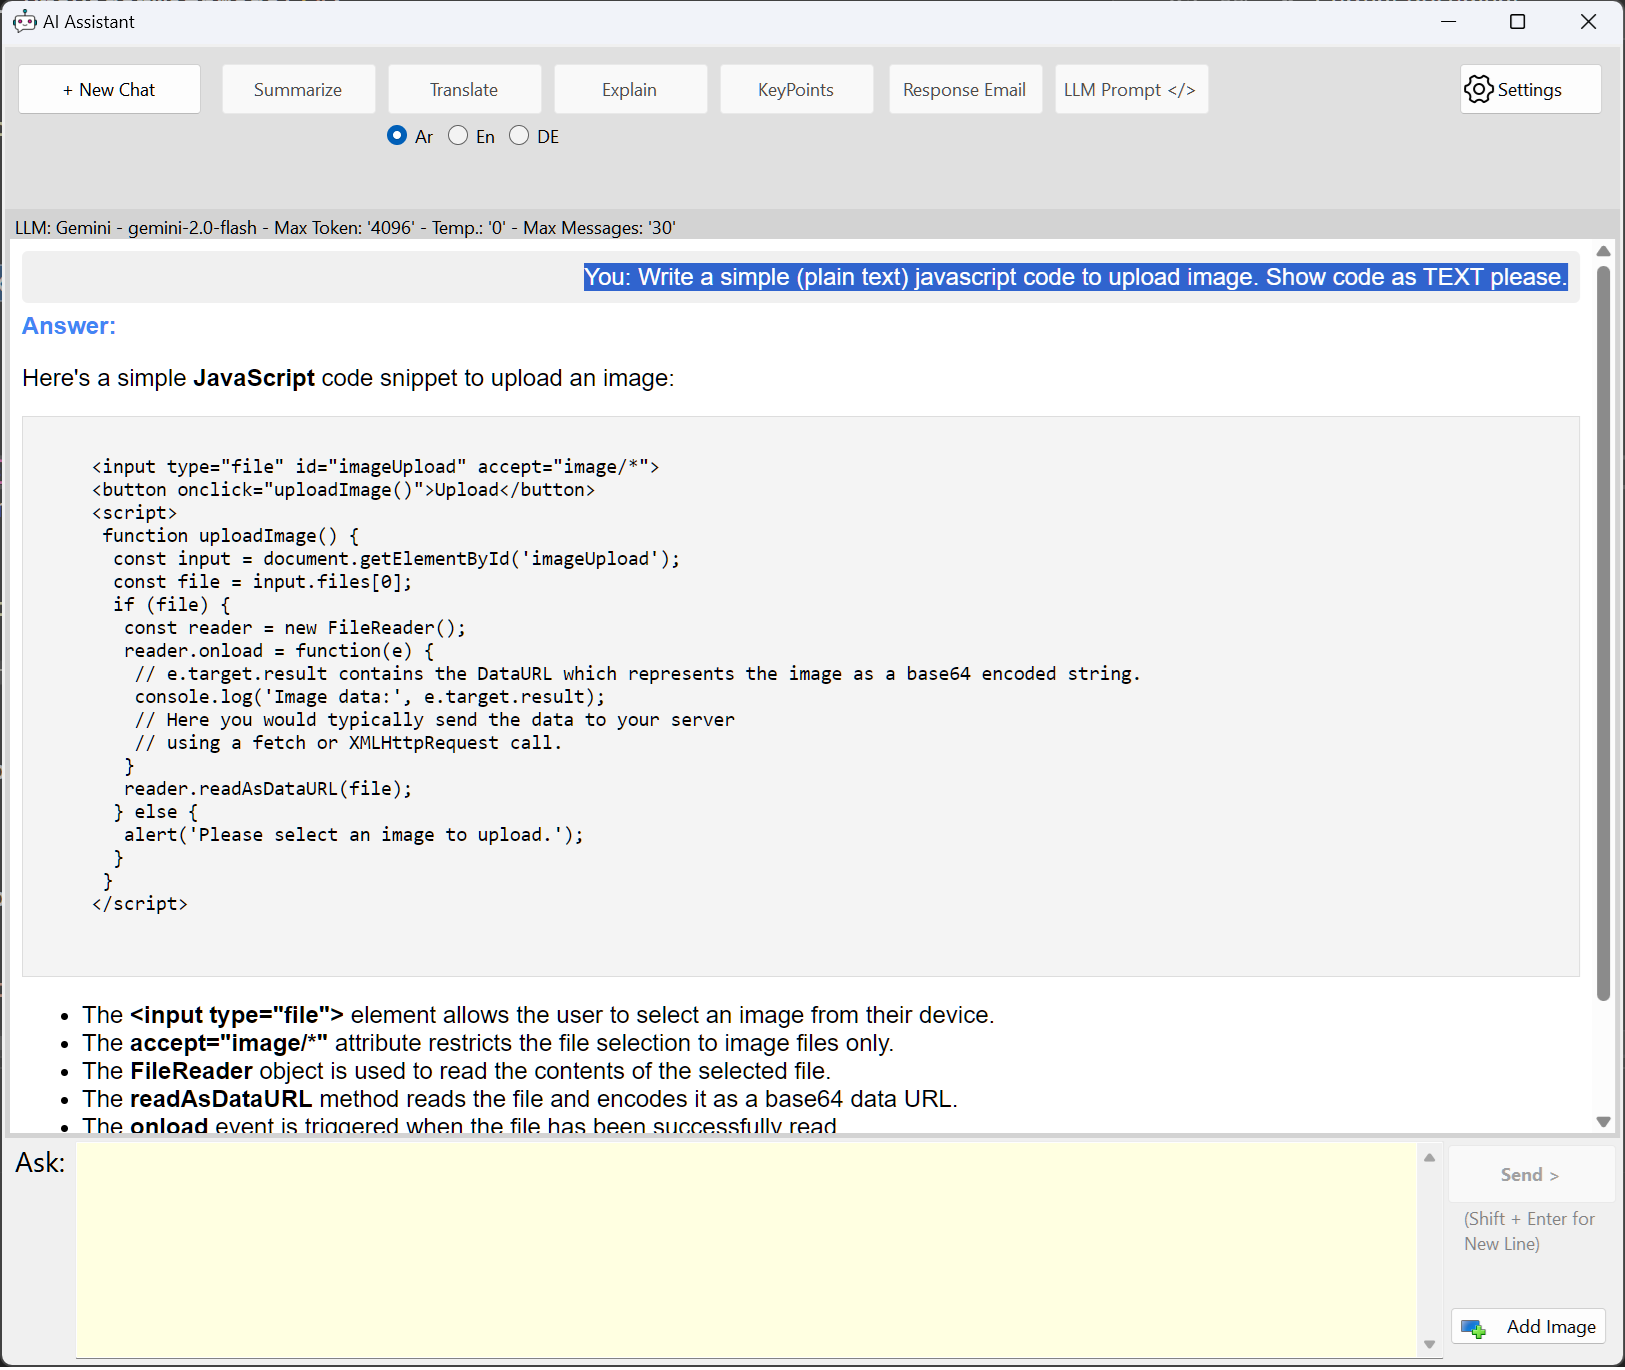
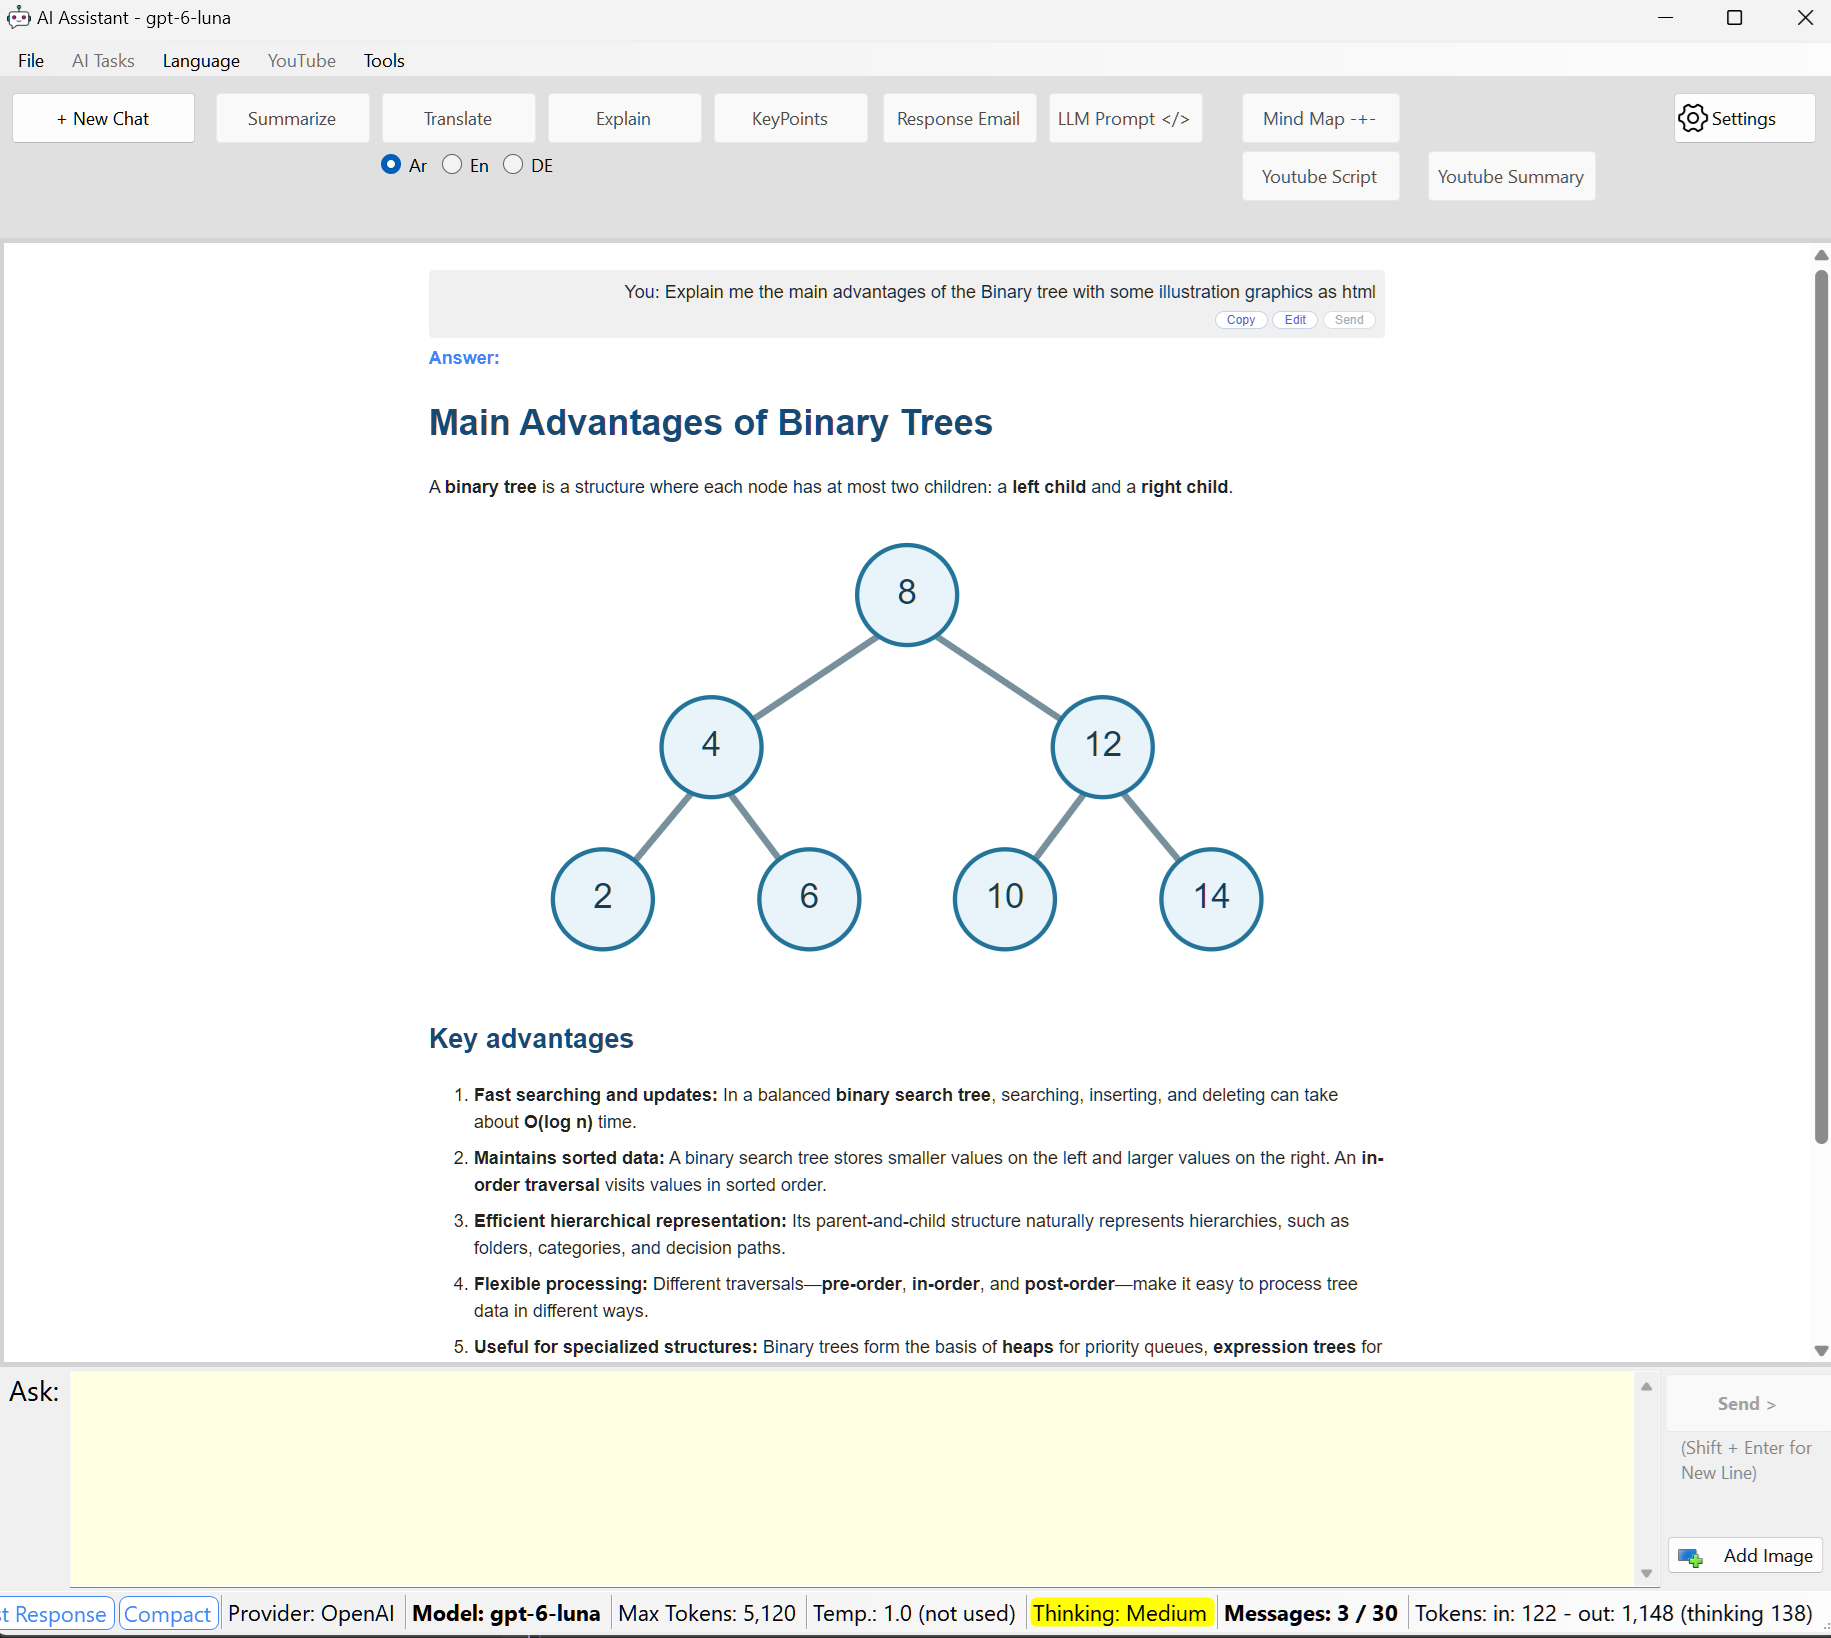
docs: update README and screenshot

diff --git a/README.md b/README.md
@@ -4,6 +4,9 @@ A powerful Windows Forms application that provides a user-friendly interface for
 The application supports multiple AI providers, image analysis, and specialized AI tasks.
 
 ![UI Assistant Screenshot](https://raw.githubusercontent.com/MohammedJayyab/AI_Assistant/master/AI_Assistant/images/UI_Assistant.png)
+
+*An HTML answer with an illustration. The title shows the model in use; the status bar shows the provider, the model, max tokens, the temperature (`not used` while the model thinks), the thinking level highlighted in yellow, the messages in the LLM context and the tokens reported by the provider.*
+
 ## Features
 
 - 🤖 **Multiple AI Providers**
@@ -46,6 +49,7 @@ The application supports multiple AI providers, image analysis, and specialized 
   - A cut-off or empty summary does not compact the conversation: the current context is kept and a message explains why
   - **Copy Last Response** copies the last answer; every message also has its own Copy button, under the text on the right
   - **Edit** (on the last question): change it and press **Send** to replace the question and its answer, in the LLM context, the chat and the history
+  - **Re-Generate** (on the last answer): asks the same question again, with the same prompt and image, and the new answer replaces the last one in place, in the LLM context, the chat and the history. If no new answer comes (an error or an empty answer), the previous one is kept
 
 - 📊 **Status Bar**
   - Shows the provider, the model (bold), max tokens, temperature, thinking level and messages; clicking any of them opens the Settings
